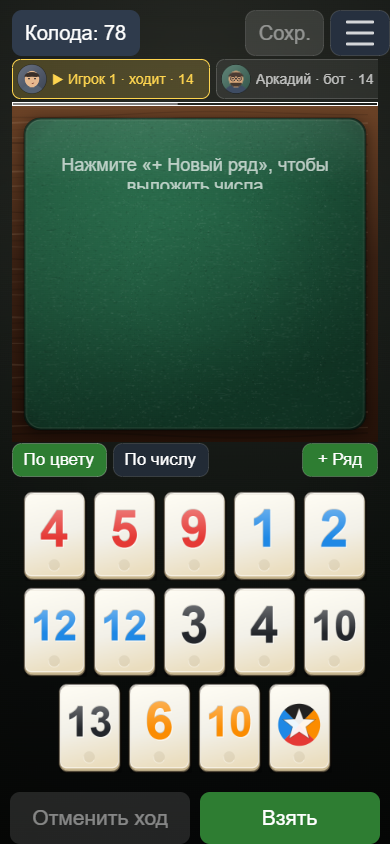
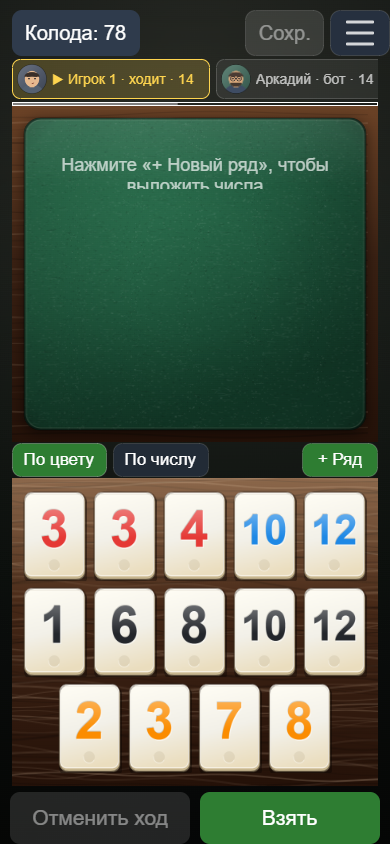
Restore wooden hand rack without green underlay
Hand tiles sit directly on the wood texture; the dark green groove is gone.

Changed region(s): [[0.0308, 0.5545, 0.9846, 0.955]]

diff --git a/babylon/src/ui2/offline_game.ts b/babylon/src/ui2/offline_game.ts
@@ -34,6 +34,7 @@ import {
   tableMatTexture,
   TableTheme,
   themeById,
+  woodTexture,
 } from './skin_art';
 import {
   abortTouchGestures,
@@ -239,6 +240,7 @@ export class OfflineGame {
   private tableMat!: GuiImage;
   private handPanel!: Container;
   private handHost!: Container;
+  private handWood!: GuiImage;
   private handToolbar!: Container;
   private sortColorBtn!: Button;
   private sortValueBtn!: Button;
@@ -930,7 +932,17 @@ export class OfflineGame {
     this.handPanel.clipChildren = false;
     this.handPanel.horizontalAlignment = Control.HORIZONTAL_ALIGNMENT_CENTER;
     col.addControl(this.handPanel);
-    // Рука без подложки: фишки лежат прямо на фоне, как на краю стола.
+    // Деревянный лоток без тёмно-зелёной выемки: фишки стоят прямо на доске.
+    this.handWood = new GuiImage(
+      'handWood',
+      woodTexture(tableTheme(), Math.max(180, viewWidth() - SIDE_PAD * 2), ts.y + 26),
+    );
+    this.handWood.width = '100%';
+    this.handWood.height = '100%';
+    this.handWood.stretch = GuiImage.STRETCH_FILL;
+    this.handWood.isHitTestVisible = false;
+    this.handWood.isPointerBlocker = false;
+    this.handPanel.addControl(this.handWood);
     // Рука без скролла: фишки переносятся на следующие ряды (layoutFlow),
     // высота панели растёт под фактическое число рядов.
     this.handHost = new Container('handHost');
@@ -939,6 +951,15 @@ export class OfflineGame {
     this.handHost.clipChildren = false;
     this.handHost.horizontalAlignment = Control.HORIZONTAL_ALIGNMENT_CENTER;
     this.handPanel.addControl(this.handHost);
+  }
+
+  // Доска руки меняет размер вместе с числом рядов/шириной экрана.
+  private updateHandRack(): void {
+    if (!this.handWood) return;
+    const w = this.handPanel.widthInPixels;
+    const h = this.handPanel.heightInPixels;
+    if (w <= 0 || h <= 0) return;
+    this.handWood.source = woodTexture(tableTheme(), w, h);
   }
 
   private bottomButtonWidth(): number {
@@ -3090,6 +3111,7 @@ export class OfflineGame {
       this.rowsScroll.width = px(Math.max(160, tableW - TABLE_INSET * 2));
       this.rowsScroll.height = px(Math.max(48, matH - TABLE_INSET * 2));
       this.handPanel.width = px(Math.max(180, viewWidth() - SIDE_PAD * 2));
+      this.updateHandRack();
       if (this.handToolbar) this.handToolbar.width = px(Math.max(180, viewWidth() - SIDE_PAD * 2));
       const bw = this.bottomButtonWidth();
       this.undoBtn.width = px(bw);
@@ -3453,6 +3475,7 @@ export class OfflineGame {
     this.handHost.height = px(Math.max(ts.y, laid.totalHeight));
     const handH = laid.totalHeight + 26;
     this.handPanel.height = px(handH);
+    this.updateHandRack();
     // Стол забирает весь остаток под фактическую высоту руки: рука всегда
     // видна целиком, а стол скроллится.
     if (this.rowsScroll && this.tableBox) {

diff --git a/MIRRA_FEEDBACK_RESPONSE.md b/MIRRA_FEEDBACK_RESPONSE.md
@@ -15,7 +15,7 @@
   без внешних картинок).
 - Фишки — объёмная «слоновая кость» с фаской, бликом, тенью и цветным вдавленным числом;
   рубашка — синяя с ромбом.
-- Рука без тяжёлой подложки: фишки лежат прямо на фоне, как на краю стола.
+- Рука стоит на деревянном лотке; тёмно-зелёной выемки под фишками нет.
 - У ботов аватары-персонажи; в меню — фишки веером и карточка игрока.
 - Меню перестроено: главные действия, режимы, мета, настройки партии спрятаны за кнопкой.
 
@@ -48,7 +48,7 @@
 - Крупные фишки: по умолчанию 72 px на десктопе, на телефоне рука ужимается до 3 рядов,
   но остаётся читаемой (не «микро»).
 - Кнопки «По цвету» и «По числу» над рукой; выбор сохраняется.
-- Фишки крупные, с тенью; рука без подложки, чтобы не спорить со столом.
+- Фишки крупные, с тенью; рука на деревянной доске без тёмной выемки.
 
 ### 5. «Текст подсказки с ошибкой, выложите 4 чисел»
 
